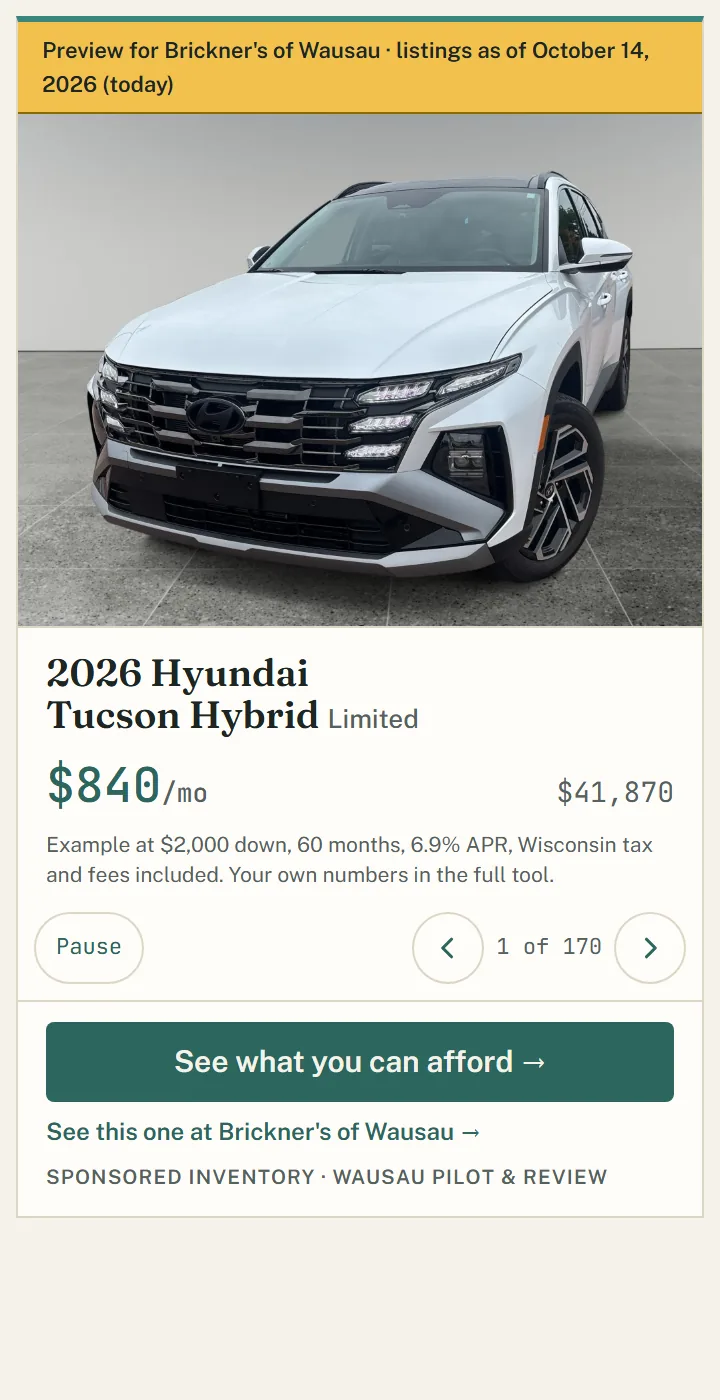
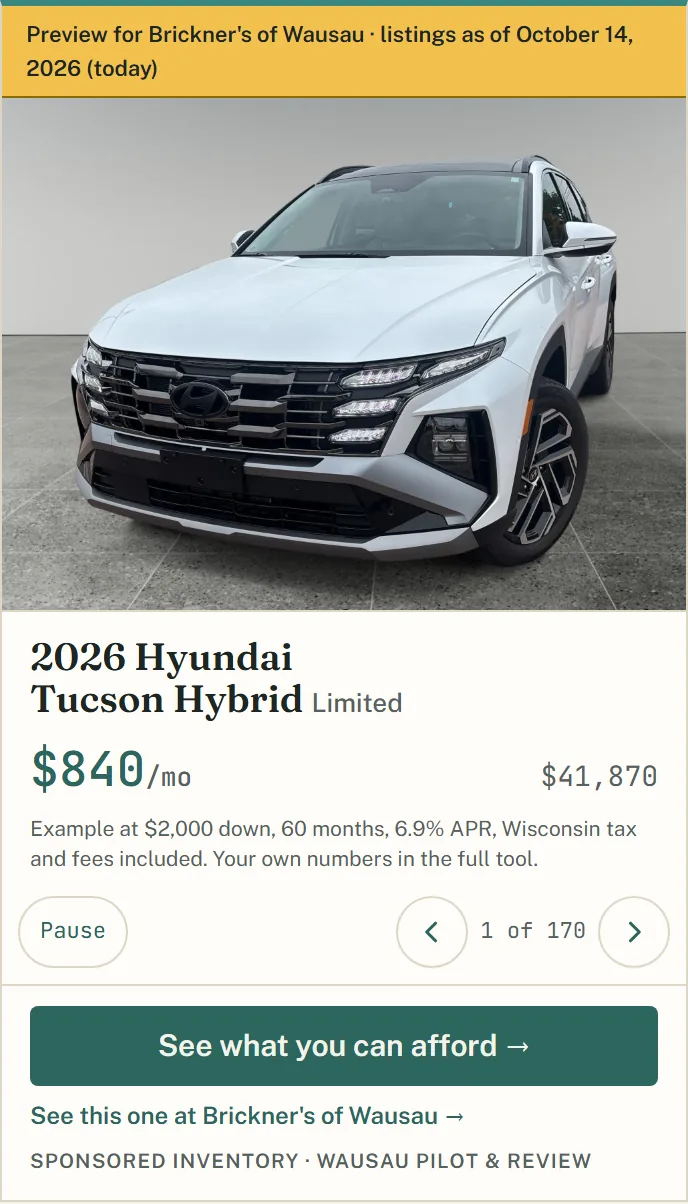
Media kit: shots with every photo loaded, the mini cropped to its card

diff --git a/public/sponsors/index.html b/public/sponsors/index.html
@@ -58,11 +58,10 @@
       h2 { font-size: 26px; margin-bottom: 12px; }
       .sub { color: var(--ink-soft); max-width: 62ch; }
 
-      .shots { display: grid; grid-template-columns: 2fr 1fr; gap: 16px; margin-top: 18px; }
+      .shots { display: grid; grid-template-columns: 2fr 1fr; gap: 16px; margin-top: 18px; align-items: start; }
       .shot { background: #fff; border: 1px solid var(--rule); border-top: 3px solid var(--teal); padding: 10px; }
       .shot img { display: block; width: 100%; height: auto; }
       .shot figcaption { margin-top: 8px; font-size: 12px; color: var(--ink-soft); }
-      .shot.phone { display: grid; grid-template-rows: auto 1fr auto; }
       .mini-row { display: grid; grid-template-columns: 1fr 2fr; gap: 16px; margin-top: 16px; align-items: start; }
       .mini-row .shot { max-width: 360px; }
       .label { display: inline-block; font-family: var(--mono); font-size: 10.5px; letter-spacing: 0.04em; color: #5c4600; background: #f2c14e; padding: 2px 8px; margin-bottom: 8px; }
@@ -143,7 +142,7 @@
         <div class="mini-row">
           <figure class="shot">
             <span class="label">PREVIEW — a proposal, not a live sponsorship</span>
-            <img src="../media/mini.webp" alt="The sidebar slideshow: one vehicle at a time with an example payment, previous and next controls, and a button into the full tool" width="720" height="1400" loading="lazy" />
+            <img src="../media/mini.webp" alt="The sidebar slideshow: one vehicle at a time with an example payment, previous and next controls, and a button into the full tool" width="688" height="1204" loading="lazy" />
             <figcaption>The sidebar slideshow on article pages.</figcaption>
           </figure>
           <ul class="gets" aria-label="What the sponsor gets">
